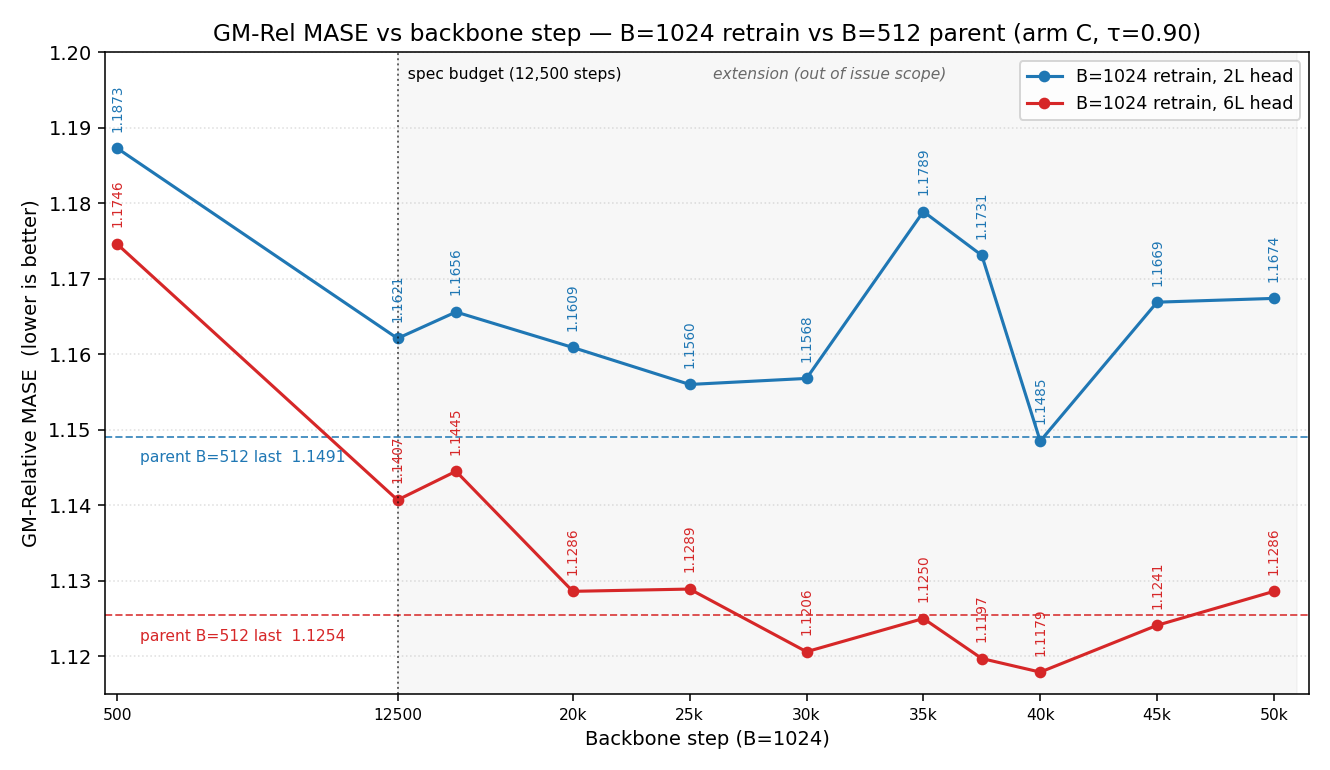
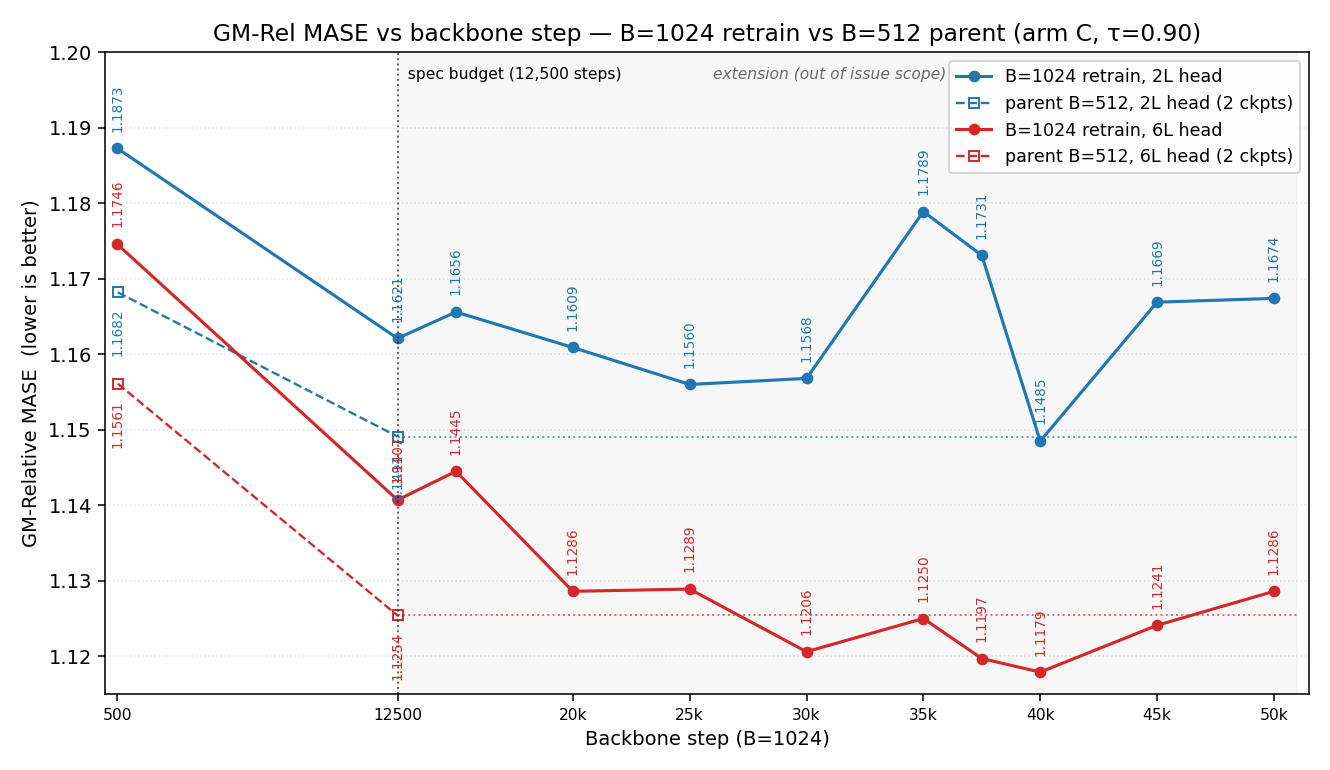
report(#369): plot parent B=512 as its own curve
The parent was scored at two checkpoints (best-loss 533, last 12,500);
gm_vs_step.png now draws that 2-point dashed segment per head with a
dotted continuation of the last value across the extension range,
replacing the bare horizontal reference lines. Both trainings'
GM trajectories are now directly comparable on one plot.

Claude-Session: https://claude.ai/code/session_0161MgsdDqgZTei6G6HD6Nfq

diff --git a/reports/2026-07-03_b1024_traj_ckpts/plots/_make_plots.py b/reports/2026-07-03_b1024_traj_ckpts/plots/_make_plots.py
@@ -44,6 +44,9 @@ def _parent(head: str, ckpt: str) -> float:
     return float(row["gm"].iloc[0])
 
 
+PARENT_BEST_LOSS_STEP_RAW = 533  # parent's own best-loss step (unsnapped)
+
+
 def gm_vs_step() -> None:
     fig, ax = plt.subplots(figsize=(9.5, 5.5))
     for head, colour in [("2L", COLOR_2L), ("6L", COLOR_6L)]:
@@ -51,10 +54,18 @@ def gm_vs_step() -> None:
         ax.plot(steps, gms, "o-", color=colour, label=f"B=1024 retrain, {head} head", linewidth=1.6, markersize=5)
         for s, g in zip(steps, gms):
             ax.text(s, g + 0.0022, f"{g:.4f}", ha="center", va="bottom", fontsize=7, color=colour, rotation=90)
-        parent_last = _parent(head, "last")
-        ax.axhline(parent_last, color=colour, linestyle="--", linewidth=1.0, alpha=0.8)
-        ax.text(1500, parent_last - 0.0018, f"parent B=512 last  {parent_last:.4f}",
-                ha="left", va="top", fontsize=8, color=colour)
+        # Parent B=512 was scored at two checkpoints only (best-loss 533,
+        # last 12,500): draw that 2-point segment, then continue its last
+        # value as a dotted level line so the whole extension compares
+        # against it.
+        p_best, p_last = _parent(head, "best"), _parent(head, "last")
+        ax.plot([PARENT_BEST_LOSS_STEP_RAW, PARENT_BUDGET_STEP], [p_best, p_last],
+                "s--", color=colour, linewidth=1.2, markersize=5, fillstyle="none",
+                label=f"parent B=512, {head} head (2 ckpts)")
+        ax.plot([PARENT_BUDGET_STEP, 51000], [p_last, p_last],
+                linestyle=":", color=colour, linewidth=1.0, alpha=0.7)
+        for s, g in [(PARENT_BEST_LOSS_STEP_RAW, p_best), (PARENT_BUDGET_STEP, p_last)]:
+            ax.text(s, g - 0.0022, f"{g:.4f}", ha="center", va="top", fontsize=7, color=colour, rotation=90)
 
     ax.axvline(PARENT_BUDGET_STEP, color="k", linestyle=":", linewidth=1.0, alpha=0.6)
     ax.text(PARENT_BUDGET_STEP, 1.198, "  spec budget (12,500 steps)", fontsize=8, va="top")
